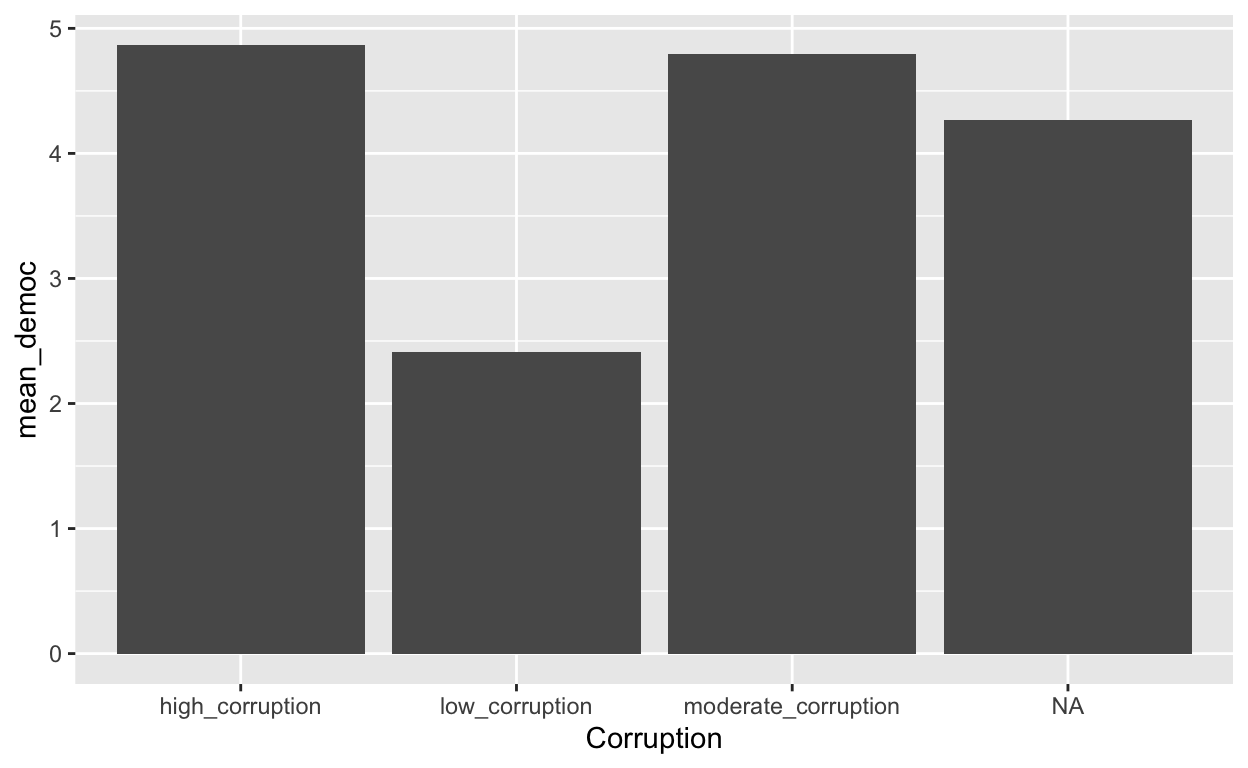
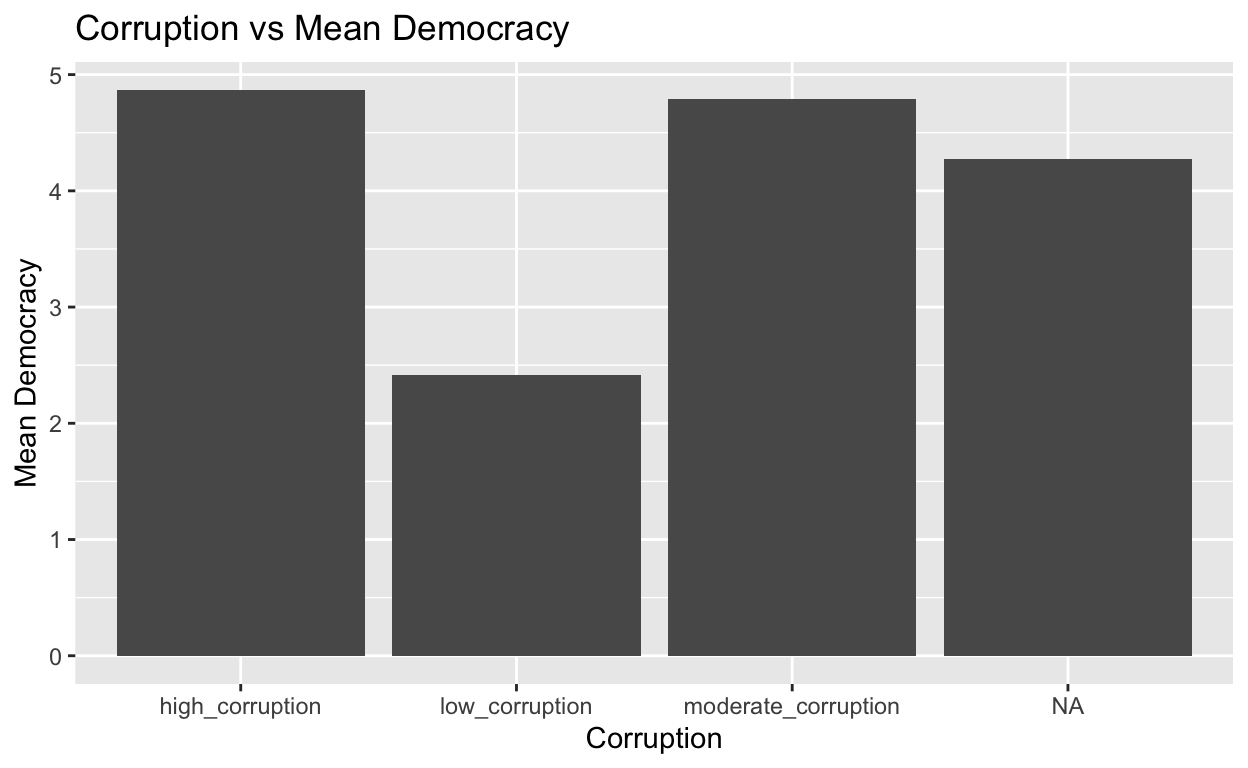
,n,m ,m

diff --git a/index.html b/index.html
@@ -1581,12 +1581,12 @@ Civil Liberties: This assesses the degree to which individuals can enjoy basic i
 <span>  <span class='fu'><a href='https://dplyr.tidyverse.org/reference/summarise.html'>summarise</a></span><span class='op'>(</span>mean_democ <span class='op'>=</span> <span class='fu'><a href='https://rdrr.io/r/base/mean.html'>mean</a></span><span class='op'>(</span><span class='va'>democ70</span>, na.rm<span class='op'>=</span> <span class='cn'>TRUE</span><span class='op'>)</span><span class='op'>)</span><span class='op'>|&gt;</span></span>
 <span>  <span class='fu'><a href='https://ggplot2.tidyverse.org/reference/ggplot.html'>ggplot</a></span><span class='op'>(</span>mapping<span class='op'>=</span> <span class='fu'><a href='https://ggplot2.tidyverse.org/reference/aes.html'>aes</a></span><span class='op'>(</span>x<span class='op'>=</span> <span class='va'>Corruption</span>, y<span class='op'>=</span> <span class='va'>mean_democ</span><span class='op'>)</span><span class='op'>)</span><span class='op'>+</span></span>
 <span>  <span class='fu'><a href='https://ggplot2.tidyverse.org/reference/geom_bar.html'>geom_col</a></span><span class='op'>(</span><span class='op'>)</span> <span class='op'>+</span></span>
-<span>  <span class='fu'><a href='https://ggplot2.tidyverse.org/reference/labs.html'>labs</a></span><span class='op'>(</span>x<span class='op'>=</span> <span class='st'>"Corruption"</span>, Y<span class='op'>=</span> <span class='st'>"Mean Democracy"</span><span class='op'>)</span></span>
+<span>  <span class='fu'><a href='https://ggplot2.tidyverse.org/reference/labs.html'>labs</a></span><span class='op'>(</span>x<span class='op'>=</span><span class='st'>"Corruption"</span>, y<span class='op'>=</span><span class='st'>"Mean Democracy"</span>, title <span class='op'>=</span> <span class='st'>"Corruption vs Mean Democracy"</span><span class='op'>)</span></span>
 <span><span class='fu'><a href='https://rdrr.io/r/base/print.html'>print</a></span><span class='op'>(</span><span class='va'>Corruption_Democracy</span><span class='op'>)</span></span></code></pre>
 </div>
 <p><img src="index_files/figure-html5/unnamed-chunk-2-1.png" width="624" /></p>
 </div>
-<p>The plot shows that the negative relationship between corruption and democracy is approximately linear. This means that the decrease in democracy associated with each unit increase in corruption is relatively constant. Countries with higher levels of corruption tend to have lower levels of democracy.</p>
+<p>The plot shows that the negative relationship between corruption and democracy. This means that the decrease in democracy associated with each unit increase in corruption is relatively constant. Countries with higher levels of corruption tend to have a score closer to 7 on the dfreedom scale indicatingh lower levels of democracy. Countries with high corruption had a mean score near 5 as well as countries with moderate corruption. On the other hand countries with low corruption had a mean democracy score closer to 2.5.</p>
 <h2 id="results-section">Results Section</h2>
 <div class="layout-chunk" data-layout="l-body">
 <div class="sourceCode">
@@ -1595,8 +1595,8 @@ Civil Liberties: This assesses the degree to which individuals can enjoy basic i
 <span>  <span class='fu'><a href='https://ggplot2.tidyverse.org/reference/ggplot.html'>ggplot</a></span><span class='op'>(</span>mapping<span class='op'>=</span> <span class='fu'><a href='https://ggplot2.tidyverse.org/reference/aes.html'>aes</a></span><span class='op'>(</span>x<span class='op'>=</span><span class='va'>corrupti</span>, y<span class='op'>=</span> <span class='va'>wdiinfmt70</span><span class='op'>)</span><span class='op'>)</span><span class='op'>+</span></span>
 <span>   <span class='fu'><a href='https://ggplot2.tidyverse.org/reference/geom_point.html'>geom_point</a></span><span class='op'>(</span><span class='op'>)</span><span class='op'>+</span> </span>
 <span>  <span class='fu'><a href='https://ggplot2.tidyverse.org/reference/labs.html'>labs</a></span><span class='op'>(</span>x<span class='op'>=</span> <span class='st'>"Corruption Score"</span>, </span>
-<span>       Y<span class='op'>=</span> <span class='st'>"Avergae Infant Mortality per 1000 People"</span>,</span>
-<span>       Title<span class='op'>=</span> <span class='st'>"Comparing Corruption and Infant Mortality"</span><span class='op'>)</span><span class='op'>+</span> </span>
+<span>       y<span class='op'>=</span> <span class='st'>"Avergae Infant Mortality per 1000 People"</span>,</span>
+<span>       title<span class='op'>=</span> <span class='st'>"Comparing Corruption and Infant Mortality"</span><span class='op'>)</span><span class='op'>+</span> </span>
 <span> <span class='fu'><a href='https://ggplot2.tidyverse.org/reference/geom_smooth.html'>geom_smooth</a></span><span class='op'>(</span>method <span class='op'>=</span> <span class='st'>"lm"</span>, se <span class='op'>=</span> <span class='cn'>FALSE</span><span class='op'>)</span></span>
 <span><span class='va'>corrupt_infant_mortality</span></span></code></pre>
 </div>
@@ -1617,12 +1617,12 @@ Civil Liberties: This assesses the degree to which individuals can enjoy basic i
 1       112.  38.0        101.</code></pre>
 <div class="sourceCode">
 <pre class="sourceCode r"><code class="sourceCode r"><span><span class='fu'>knitr</span><span class='fu'>::</span><span class='fu'><a href='https://rdrr.io/pkg/knitr/man/kable.html'>kable</a></span><span class='op'>(</span><span class='va'>death_table</span>, </span>
-<span>             col.names <span class='op'>=</span> <span class='fu'><a href='https://rdrr.io/r/base/c.html'>c</a></span><span class='op'>(</span><span class='st'>"Non-Democartic Infant Mortality Rate"</span>, <span class='st'>"Democartic Infant Mortality Rate"</span>, <span class='st'>"Partly Deemocratic Infant Mortality Rate"</span>, <span class='st'>"na"</span><span class='op'>)</span>, digits <span class='op'>=</span> <span class='fl'>3</span><span class='op'>)</span> </span></code></pre>
+<span>             col.names <span class='op'>=</span> <span class='fu'><a href='https://rdrr.io/r/base/c.html'>c</a></span><span class='op'>(</span><span class='st'>"Non-Democartic Infant Mortality Rate"</span>, <span class='st'>"Democartic Infant Mortality Rate"</span>, <span class='st'>"Partly Democratic Infant Mortality Rate"</span>, <span class='st'>"na"</span><span class='op'>)</span>, digits <span class='op'>=</span> <span class='fl'>3</span><span class='op'>)</span> </span></code></pre>
 </div>
-<table style="width:100%;">
+<table>
 <colgroup>
 <col style="width: 31%" />
-<col style="width: 27%" />
+<col style="width: 28%" />
 <col style="width: 34%" />
 <col style="width: 5%" />
 </colgroup>
@@ -1630,7 +1630,7 @@ Civil Liberties: This assesses the degree to which individuals can enjoy basic i
 <tr class="header">
 <th style="text-align: right;">Non-Democartic Infant Mortality Rate</th>
 <th style="text-align: right;">Democartic Infant Mortality Rate</th>
-<th style="text-align: right;">Partly Deemocratic Infant Mortality Rate</th>
+<th style="text-align: right;">Partly Democratic Infant Mortality Rate</th>
 <th style="text-align: right;">na</th>
 </tr>
 </thead>
